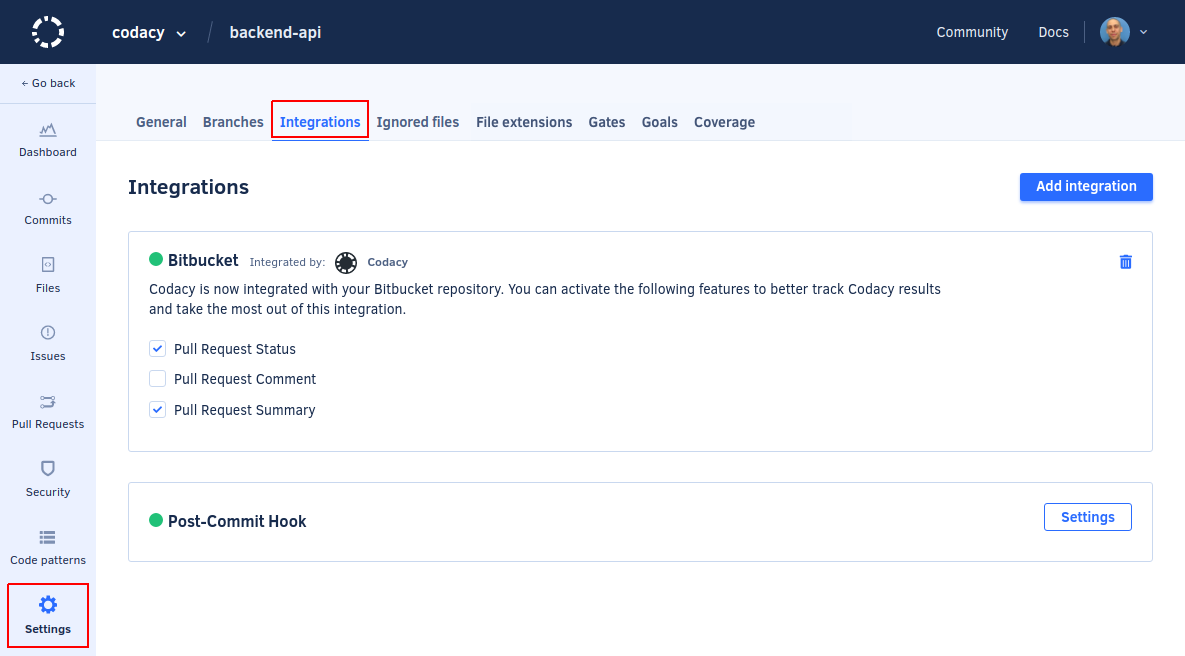
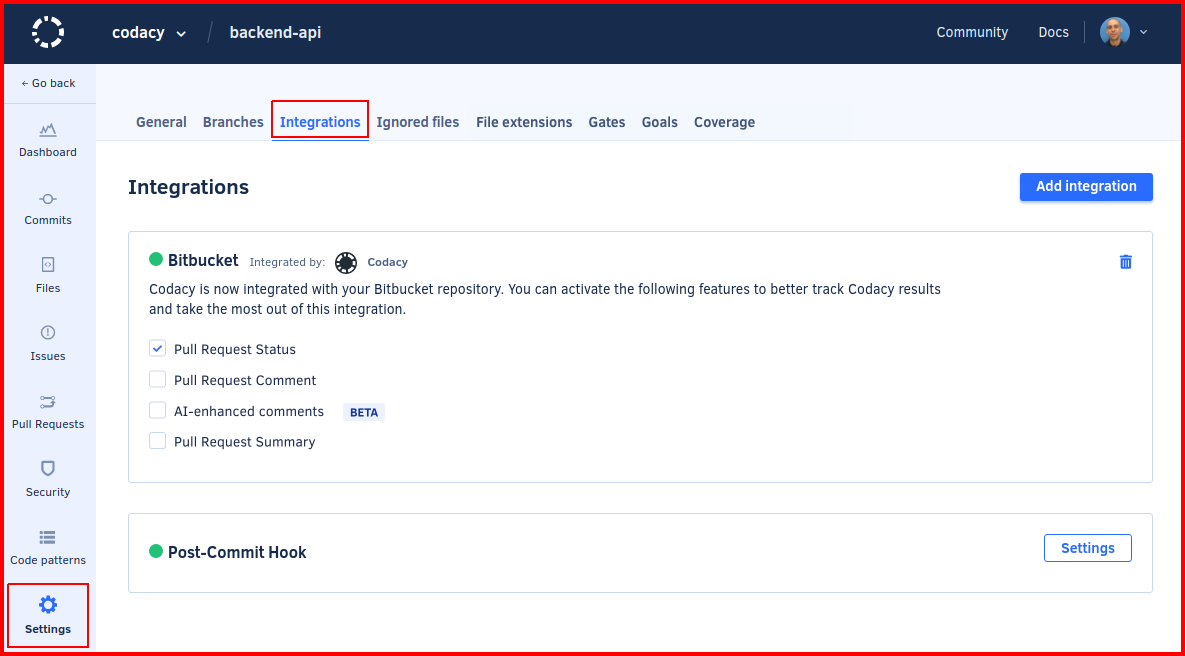
wip: Temporary screenshots

diff --git a/docs/repositories-configure/integrations/github-integration.md b/docs/repositories-configure/integrations/github-integration.md
@@ -89,8 +89,7 @@ Adds comments on the lines of the pull request where Codacy finds new issues wit
 
 Adds AI enhanced comments with insights to help you fix identified issues. Enable also **Suggested fixes** to get ready-to-commit AI-generated fixes.
 
-<!-- TODO screenshot CY-6853 -->
-![AI-enhanced comment on GitHub](images/github-integration-suggest-fixes.png)
+![AI-enhanced comment on GitHub](images/github-integration-ai-comment.png)
 
 ## See also
 

diff --git a/docs/repositories-configure/integrations/bitbucket-integration.md b/docs/repositories-configure/integrations/bitbucket-integration.md
@@ -56,8 +56,7 @@ Adds comments on the lines of the pull request where Codacy finds new issues. Cl
 
 Adds AI enhanced comments with insights to help you fix identified issues.
 
-<!-- TODO screenshot CY-6853 -->
-![AI-enhanced comment on Bitbucket](images/bitbucket-integration-pr-comment.png)
+![AI-enhanced comment on Bitbucket](images/bitbucket-integration-ai-comment.png)
 
 ### Pull Request Summary
 

diff --git a/docs/repositories-configure/integrations/gitlab-integration.md b/docs/repositories-configure/integrations/gitlab-integration.md
@@ -52,8 +52,7 @@ Adds comments on the lines of the merge request where Codacy finds new issues. C
 
 Adds AI enhanced comments with insights to help you fix identified issues.
 
-<!-- TODO screenshot CY-6853 -->
-![AI-enhanced comment on GitLab](images/gitlab-integration-pr-comment.png)
+![AI-enhanced comment on GitLab](images/gitlab-integration-ai-comment.png)
 
 ### Pull Request Summary
 
